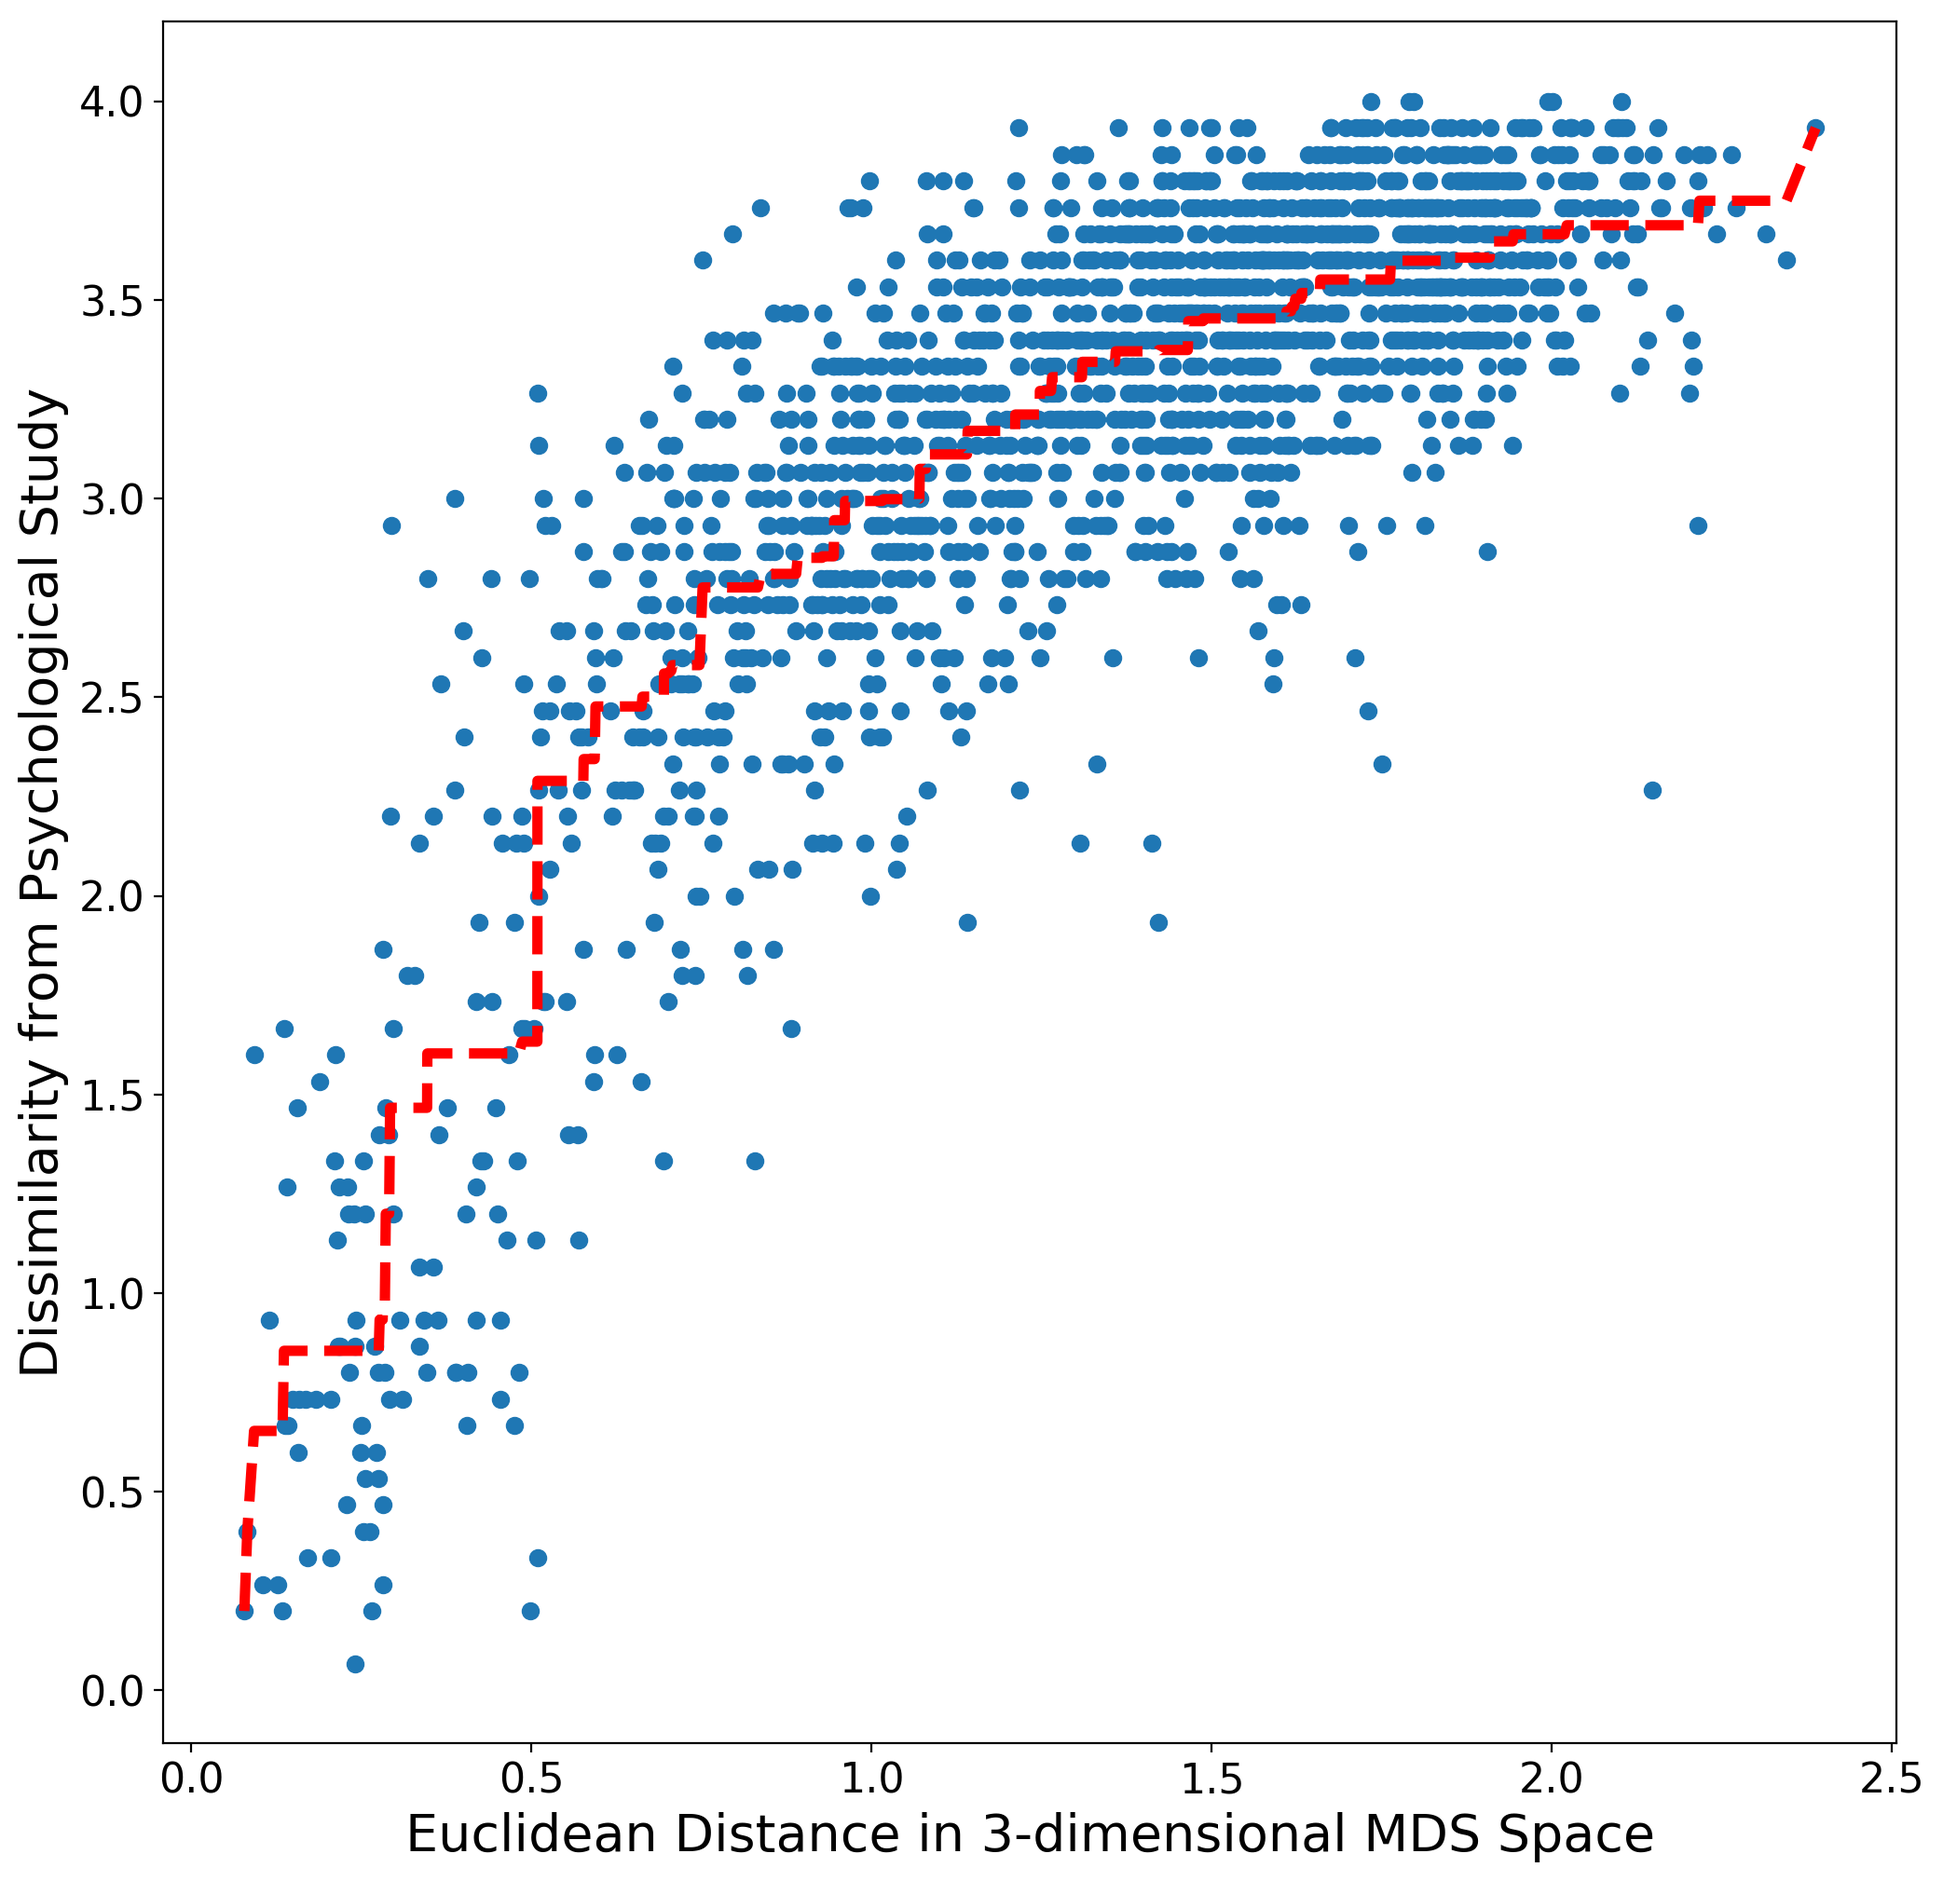
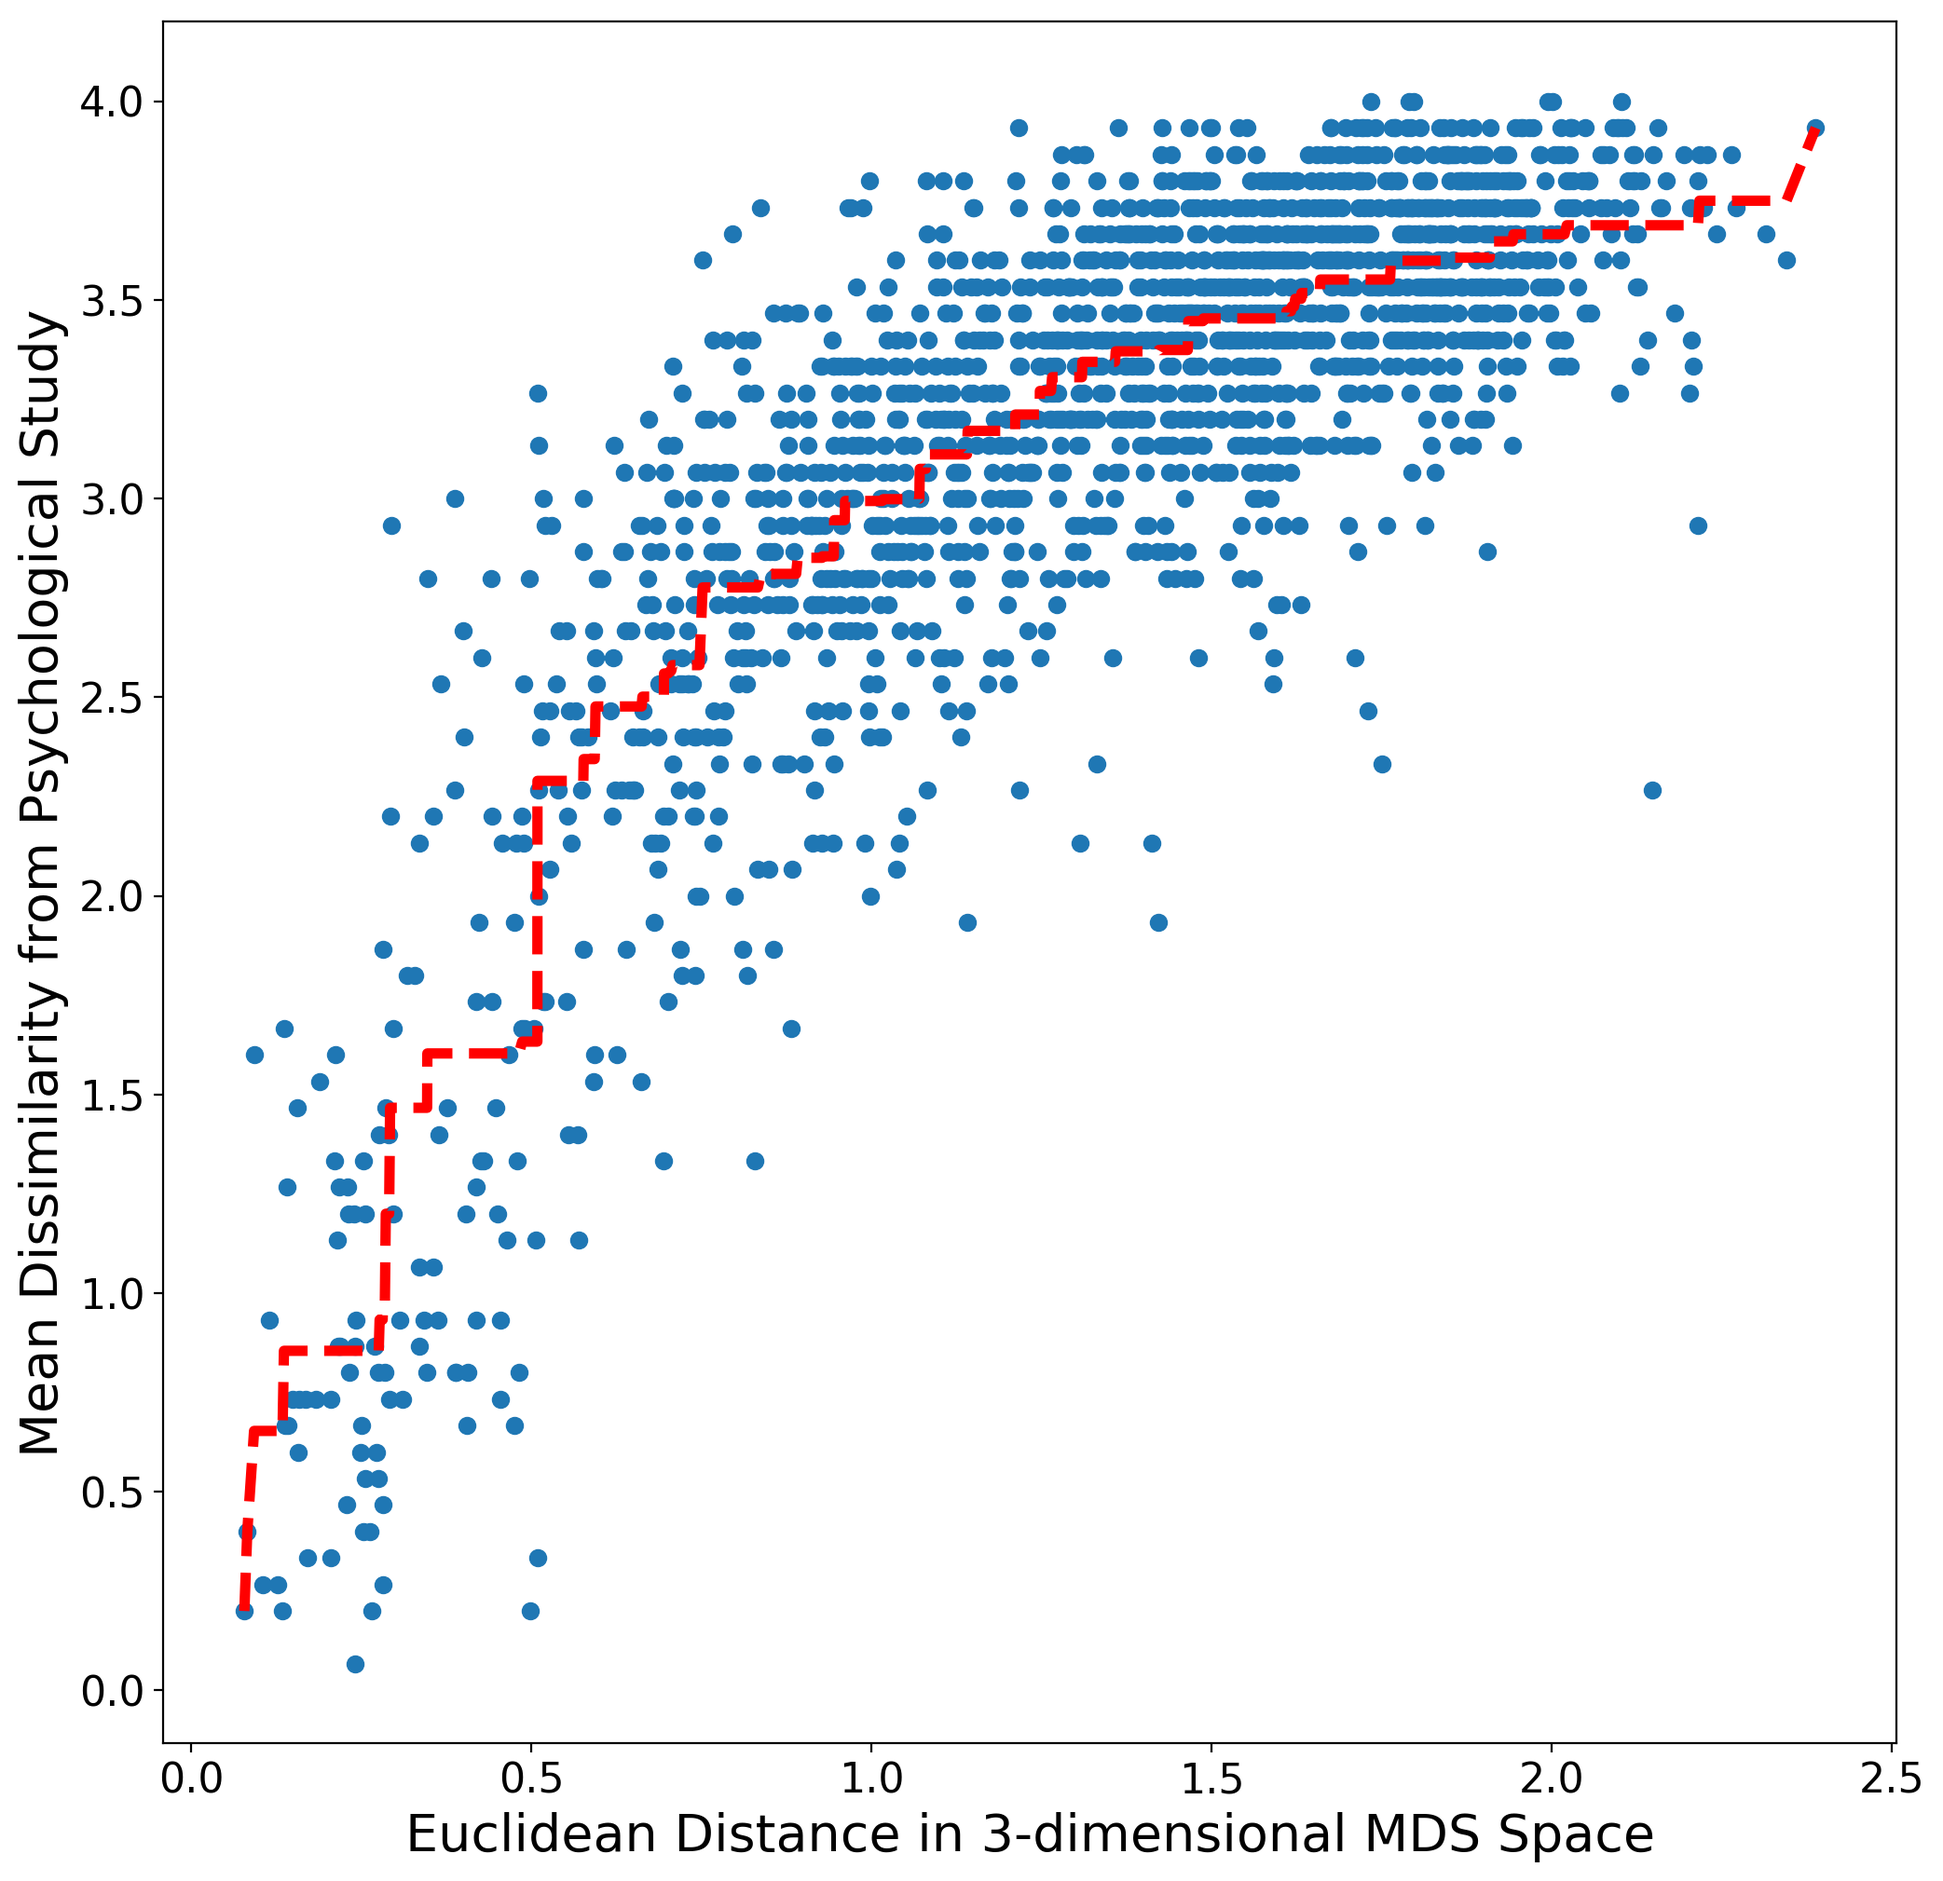
nicer axis titles for Shepard plots

Changed region(s): [[0.0, 0.156, 0.0312, 0.7801]]

diff --git a/code/mds/correlations/shepard_diagram.py b/code/mds/correlations/shepard_diagram.py
@@ -27,6 +27,7 @@ parser.add_argument('--block_size', '-b', type = int, help = 'block size for pix
 parser.add_argument('--random', '-r', type = int, help = 'dimensionality of the random baseline space', default = None)
 parser.add_argument('--distribution', help = 'distribution type to use', default = 'normal')
 parser.add_argument('--optimized', '-o', action = 'store_true', help = 'if this flag is set, weights are optimized in cross-validation')
+parser.add_argument('--similarity_name', help = 'type of similarity matrix being used', default = 'Mean')
 parser.add_argument('-n', '--n_folds', type = int, help = 'number of folds to use for cross-validation when optimizing weights', default = 5)
 parser.add_argument('-s', '--seed', type = int, help = 'fixed seed to use for creating the folds', default = None)
 args = parser.parse_args()
@@ -42,22 +43,22 @@ if args.pixel is not None:
     input_file_name = os.path.join(args.distance_file, '{0}-{1}-{2}.pickle'.format(args.block_size, args.pixel, args.distance))
     with open(input_file_name, 'rb') as f_in:
         precomputed_distances = pickle.load(f_in)
-    x_label = '{0} Distance of Downscaled Images (Block Size {1}, Aggregation with {2})'.format(args.distance, args.block_size, args.pixel)
+    x_label = '{0} Distance of Downscaled Images\n(Block Size {1}, Aggregation with {2})'.format(args.distance, args.block_size, args.pixel)
 else:
     with open(args.distance_file, 'rb') as f_in:
         distances = pickle.load(f_in)
     if args.mds is not None:
         precomputed_distances = distances['MDS'][args.mds][args.distance][0]
-        x_label = '{0} Distance in {1}-dimensional MDS Space'.format(args.distance, args.mds)
+        x_label = '{0} Distance in {1}-Dimensional MDS Space'.format(args.distance, args.mds)
     elif args.ann:
         precomputed_distances = distances[args.distance]
         x_label = '{0} Distance of ANN Activation Vectors'.format(args.distance)
     elif args.features is not None:
         precomputed_distances = distances[args.features][args.type][args.distance]
-        x_label = '{0} Distance based on {1} Shape Features: {2}'.format(args.distance, args.type, args.features)
+        x_label = '{0} Distance Based on {1} Shape Features:\n{2}'.format(args.distance, args.type, args.features)
     elif args.random is not None:
         precomputed_distances = distances[args.distribution][args.random][args.distance][0]
-        x_label = '{0} Distance in a random {1}-dimensional Space with {2} Distribution'.format(args.distance, args.random, args.distribution)
+        x_label = '{0} Distance in a Random {1}-Dimensional Space with {2} Distribution'.format(args.distance, args.random, args.distribution)
     else: # args.pixel is not None:
         raise(Exception('This should not happen!'))
 
@@ -81,7 +82,7 @@ y = corr_dict['targets'].reshape(-1)
 
 ax.scatter(x, y)
 plt.xlabel(x_label, fontsize = 20)
-plt.ylabel('Dissimilarity from Psychological Study', fontsize = 20)
+plt.ylabel('{0} Dissimilarity from Psychological Study'.format(args.similarity_name), fontsize = 20)
 
 ir = IsotonicRegression()
 ir.fit(x, y)

diff --git a/README.md b/README.md
@@ -498,6 +498,8 @@ In its basic version, the script uses fixed identical dimension weights of one. 
 - `-n` or `--n_folds`: The number of folds to use in the cross-validation process of optimizing dimension weights (defaults to 5).
 - `-s` or `--seed`: Specify a seed for the random number generator in order to make the folds and thus the overall results deterministic. If no seed is given, then the random number generator is not seeded.
 
+Finally, the flag `--similarity_name` can be used to determine the title of the y-axis by specifying which type of similarity file is being used. Its default setting is `'Mean'` (i.e., the y-axis will be labeled as 'Mean Dissimilarity from Psychological Study').
+
 
 ### 2.5 Analyzing Conceptual Regions
 
